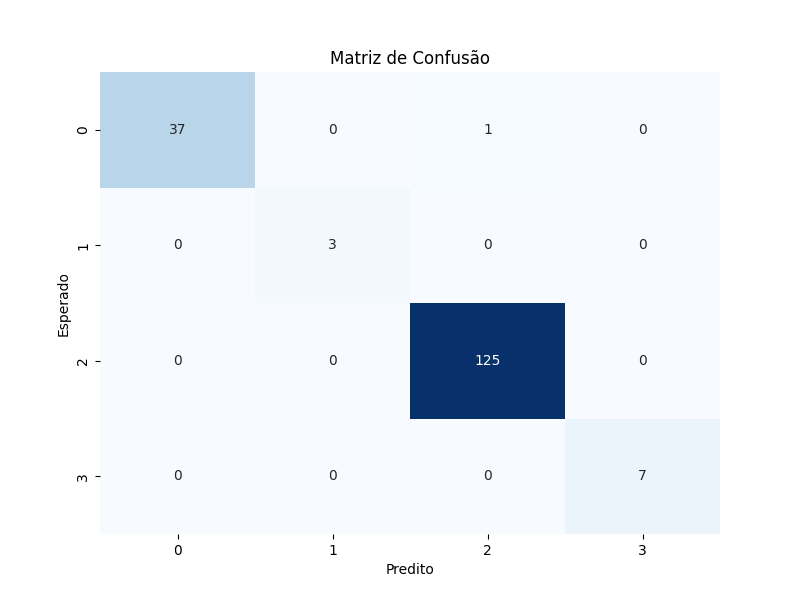
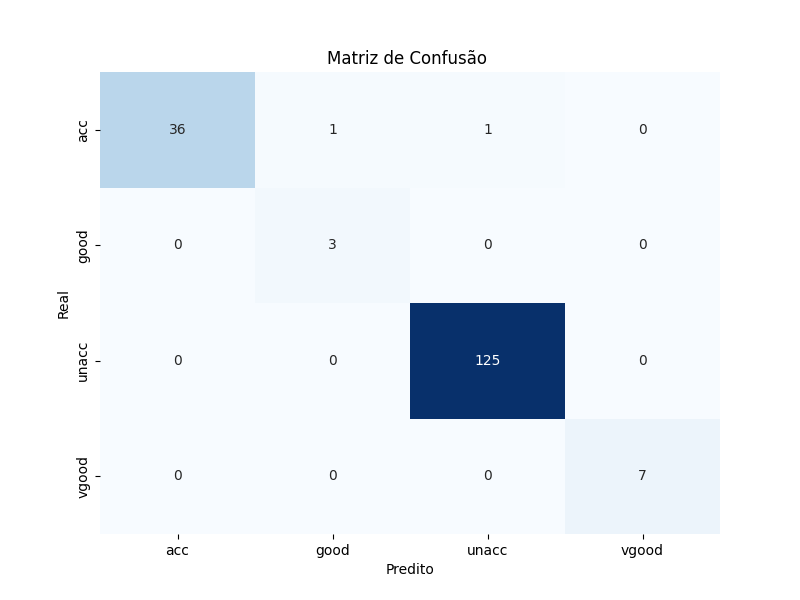
Criação de matriz de confusão, conjunto de validação, criação do gráfico de perda/epoca

diff --git a/mlp.py b/mlp.py
@@ -25,6 +25,7 @@ X = encoder.fit_transform(data.iloc[:, :-1]).toarray()
 
 # Codificação One-Hot para a variável alvo
 y = pd.get_dummies(data['class']).values
+class_labels = list(pd.get_dummies(data['class']).columns)  # Lista de rótulos de classe
 
 # Divisão inicial em conjunto de treino e conjunto temporário (que será dividido em teste e validação)
 X_train, X_temp, y_train, y_temp = train_test_split(X, y, test_size=0.2, random_state=42)
@@ -153,8 +154,9 @@ plt.savefig('comparacao_tempos_execucao.png')
 # Calcular e plotar a matriz de confusão
 conf_matrix = confusion_matrix(test_targets, test_preds)
 plt.figure(figsize=(8, 6))
-sns.heatmap(conf_matrix, annot=True, fmt='d', cmap='Blues', cbar=False)
+sns.heatmap(conf_matrix, annot=True, fmt='d', cmap='Blues', cbar=False, 
+            xticklabels=class_labels, yticklabels=class_labels)  # Adiciona rótulos das classes
 plt.xlabel('Predito')
 plt.ylabel('Real')
-plt.title('Matriz de Confusão')
+plt.title('Matriz de Confusão ')
 plt.savefig('Matriz_de_confusao')
